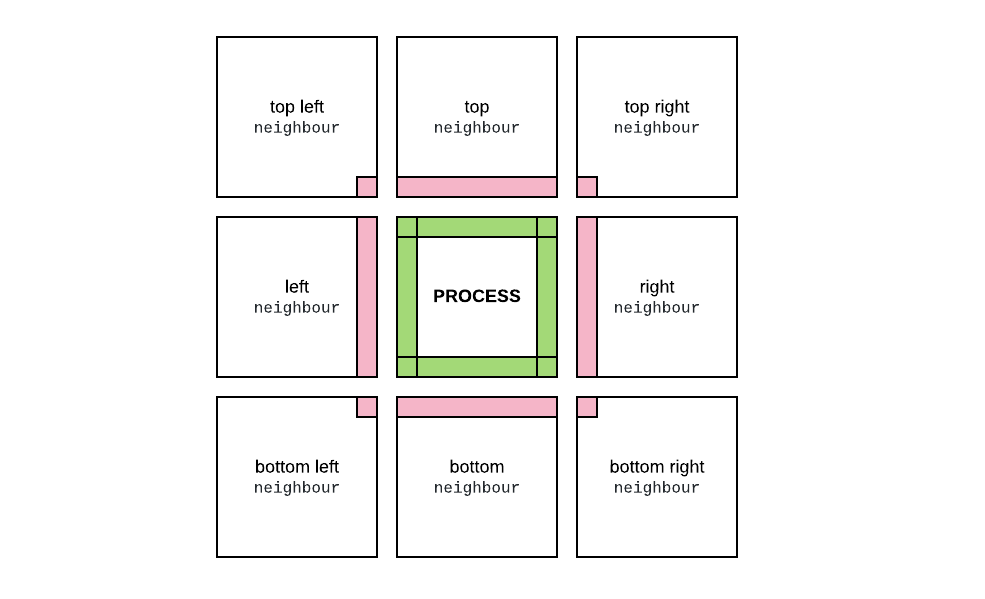
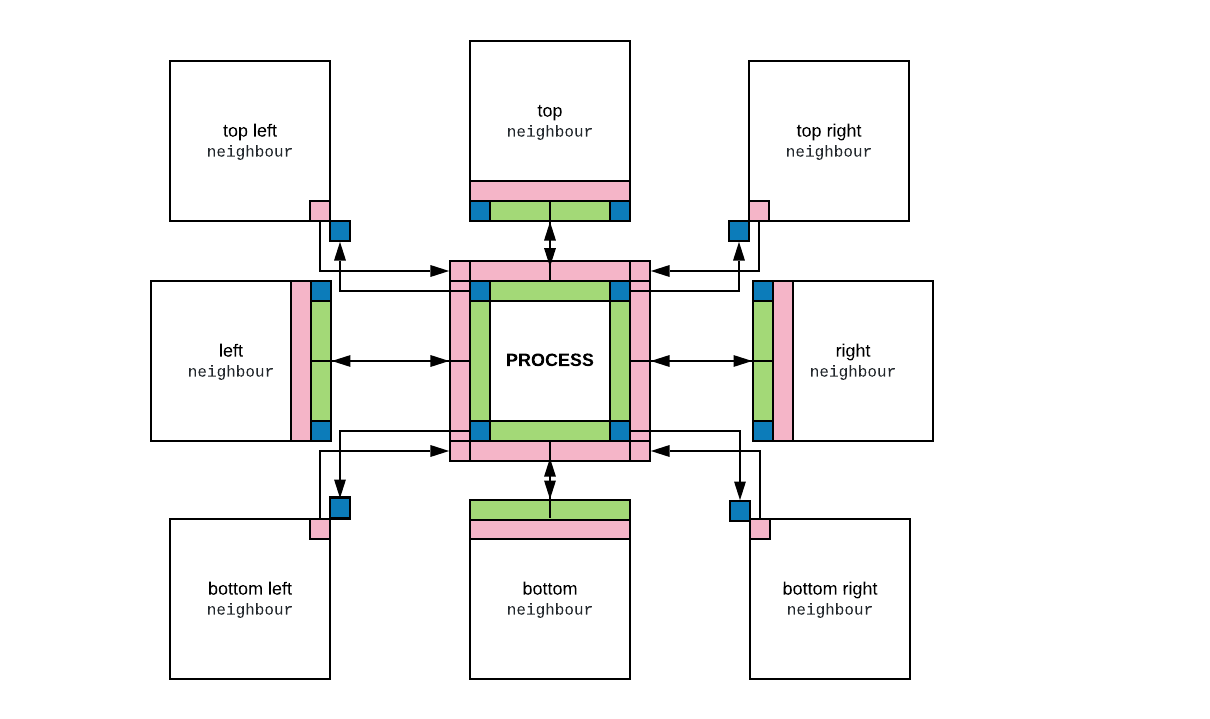
update neighbour resource and README.md

Changed region(s): [[0.1218, 0.0301, 0.7919, 0.9616], [0.1827, 0.1503, 0.335, 0.2404], [0.1218, 0.3907, 0.1523, 0.4207]]

diff --git a/README.md b/README.md
@@ -49,9 +49,9 @@ After basic stucture allocation, we scatter the grid and we initialize all curre
 
 Before the central iteration each process calculates the ranks of their neighbours, using MPI_Cart_create that makes a new communicator to which topology information has been attached. MPI_Cart_coords determines process coordinates in cartesian topology given rank in group, then with the help of MPI_Cart_rank we get all eight neighbours ranks.
 
-![neighbour_calculation](https://user-images.githubusercontent.com/48658768/72661125-4b2dbb80-39df-11ea-9cbf-67e6a672bfa3.png)
+![neighbour_calculation](https://user-images.githubusercontent.com/48658768/72804859-31e47380-3c5a-11ea-9ca5-a82395866b0e.png)
 
-As you can see from the picture, each process does eight requests(pink color) for specific outline elements using the ranks and sends their's eight outline elements(green color) to other neighbour processes.
+As you can see from the picture, each process does eight requests(pink color) for specific outline elements using the ranks and sends their's eight outline elements(green and blue color) to other neighbour processes.
 
 ### Central iteration
 
